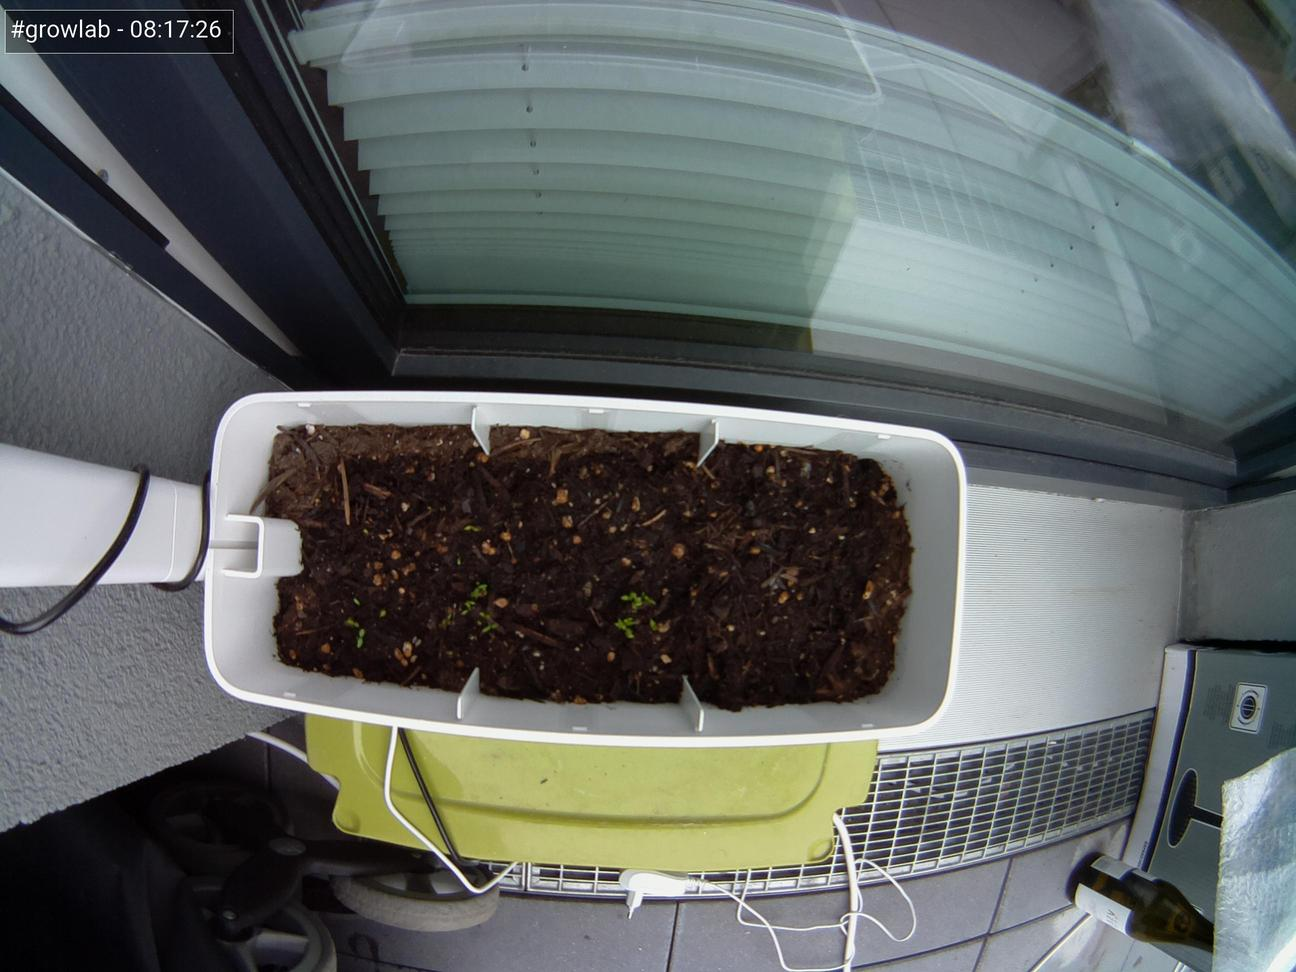
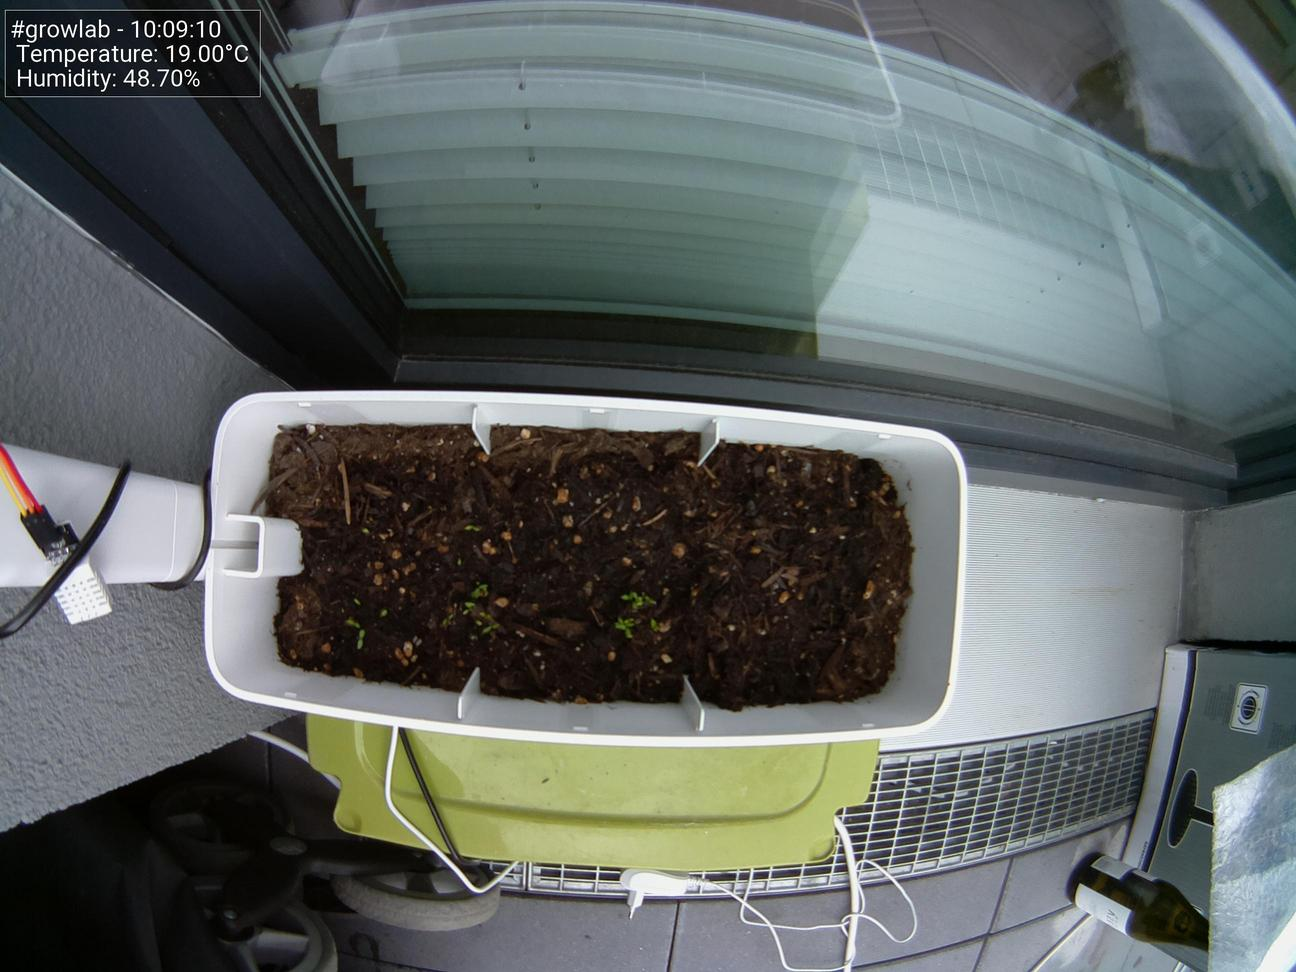
Update images at Sun 13 Jun 2021 10:09:55 AM BST

diff --git a/docs/index.html b/docs/index.html
@@ -47,15 +47,15 @@
                         <tbody>
                             <tr>
                                 <td>Time</td>
-                                <td>08:17:26 UTC</td>
+                                <td>10:09:10 UTC</td>
                             </tr>
                             <tr>
                                 <td>Temperature</td>
-                                <td>N/A</td>
+                                <td>19.00°C</td>
                             </tr>
                             <tr>
                                 <td>Humidity</td>
-                                <td>N/A</td>
+                                <td>48.70%</td>
                             </tr>
                             <tr>
                                 <td>Pressure</td>
@@ -67,7 +67,7 @@
 
                 <h5>Latest image</h5>
                 <div style="width: 85%;">
-                            <img class="figure-img img-fluid rounded" src="./preview.jpg?uid=1623568656.011939">
+                            <img class="figure-img img-fluid rounded" src="./preview.jpg?uid=1623575359.3344676">
                 </div>
             </div>
         </div>
